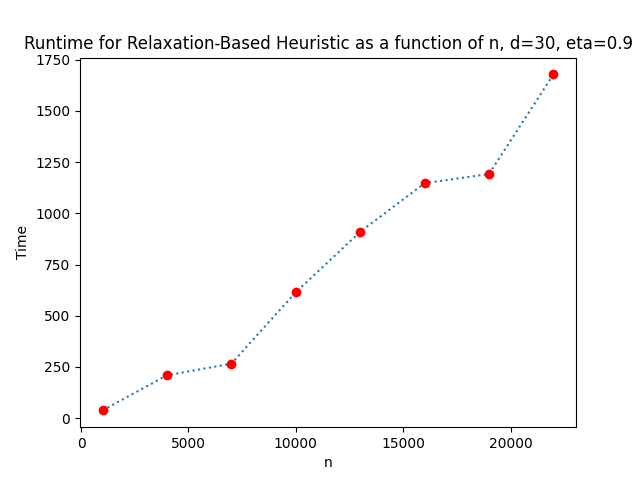
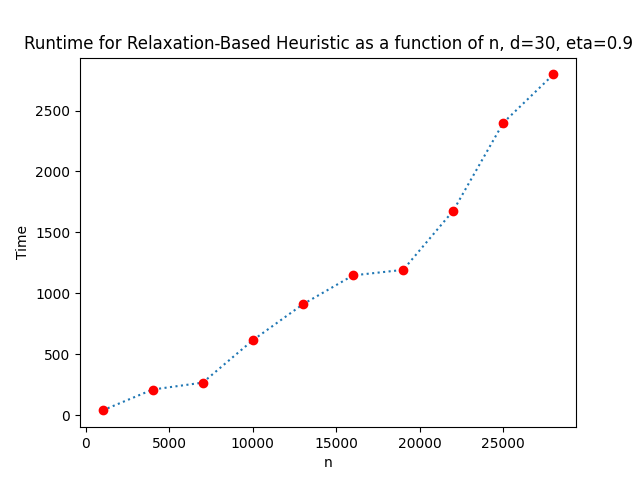
benchmarking

diff --git a/src/plot_from_log.py b/src/plot_from_log.py
@@ -2,7 +2,7 @@ import benchmarking.utils
 import data.loading
 from meb import geometry
 
-n = [1000+3000*i for i in range(10) if 1000+3000*i < 25000]
+n = [1000+3000*i for i in range(10)]
 d = 30
 eta = 0.9
 
